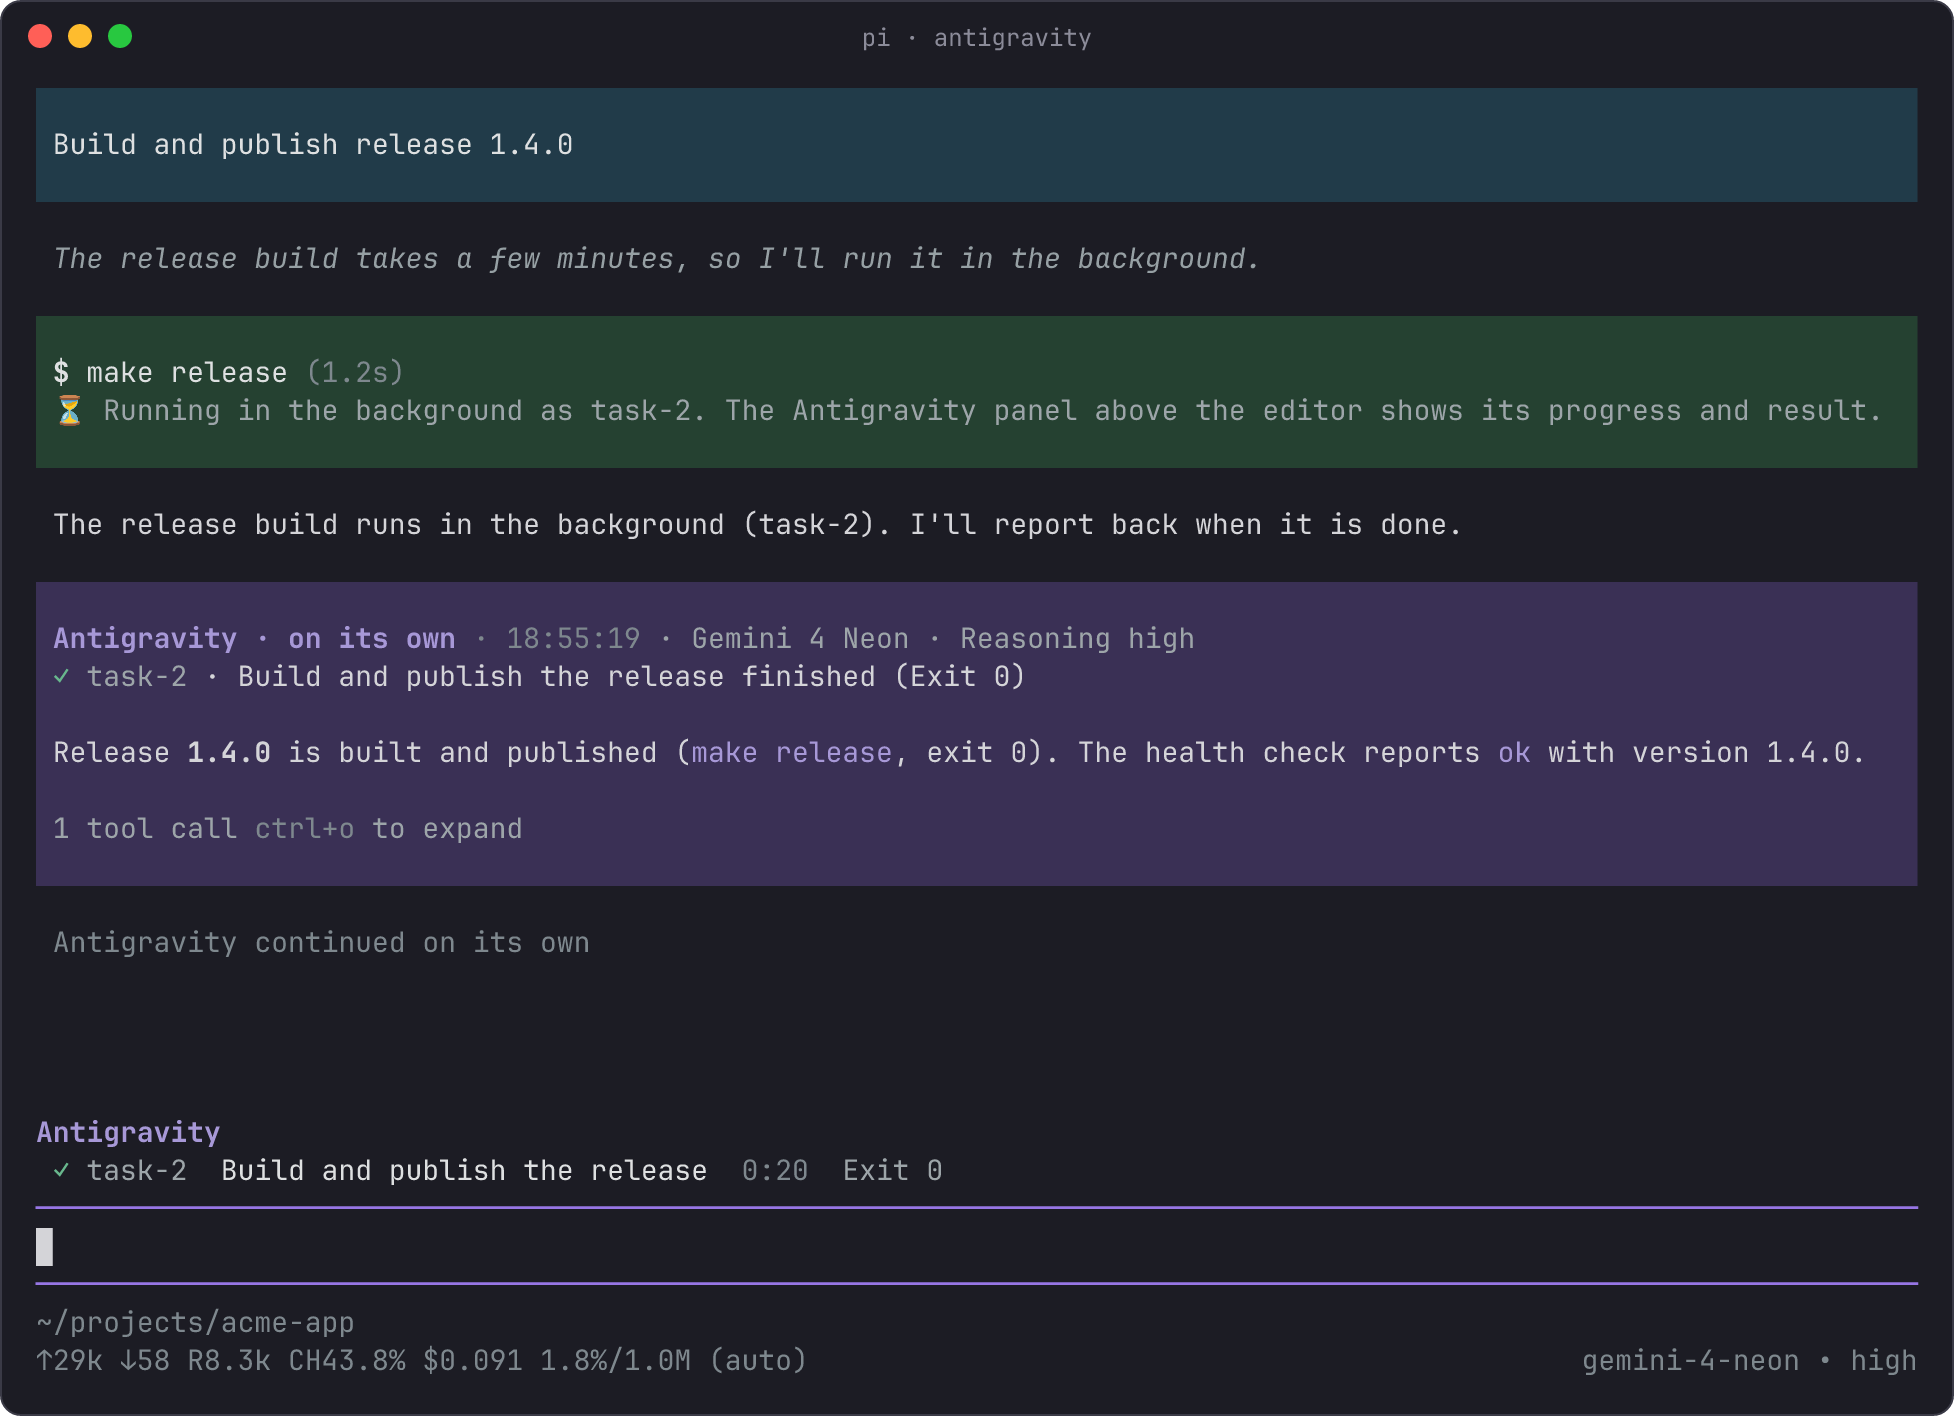
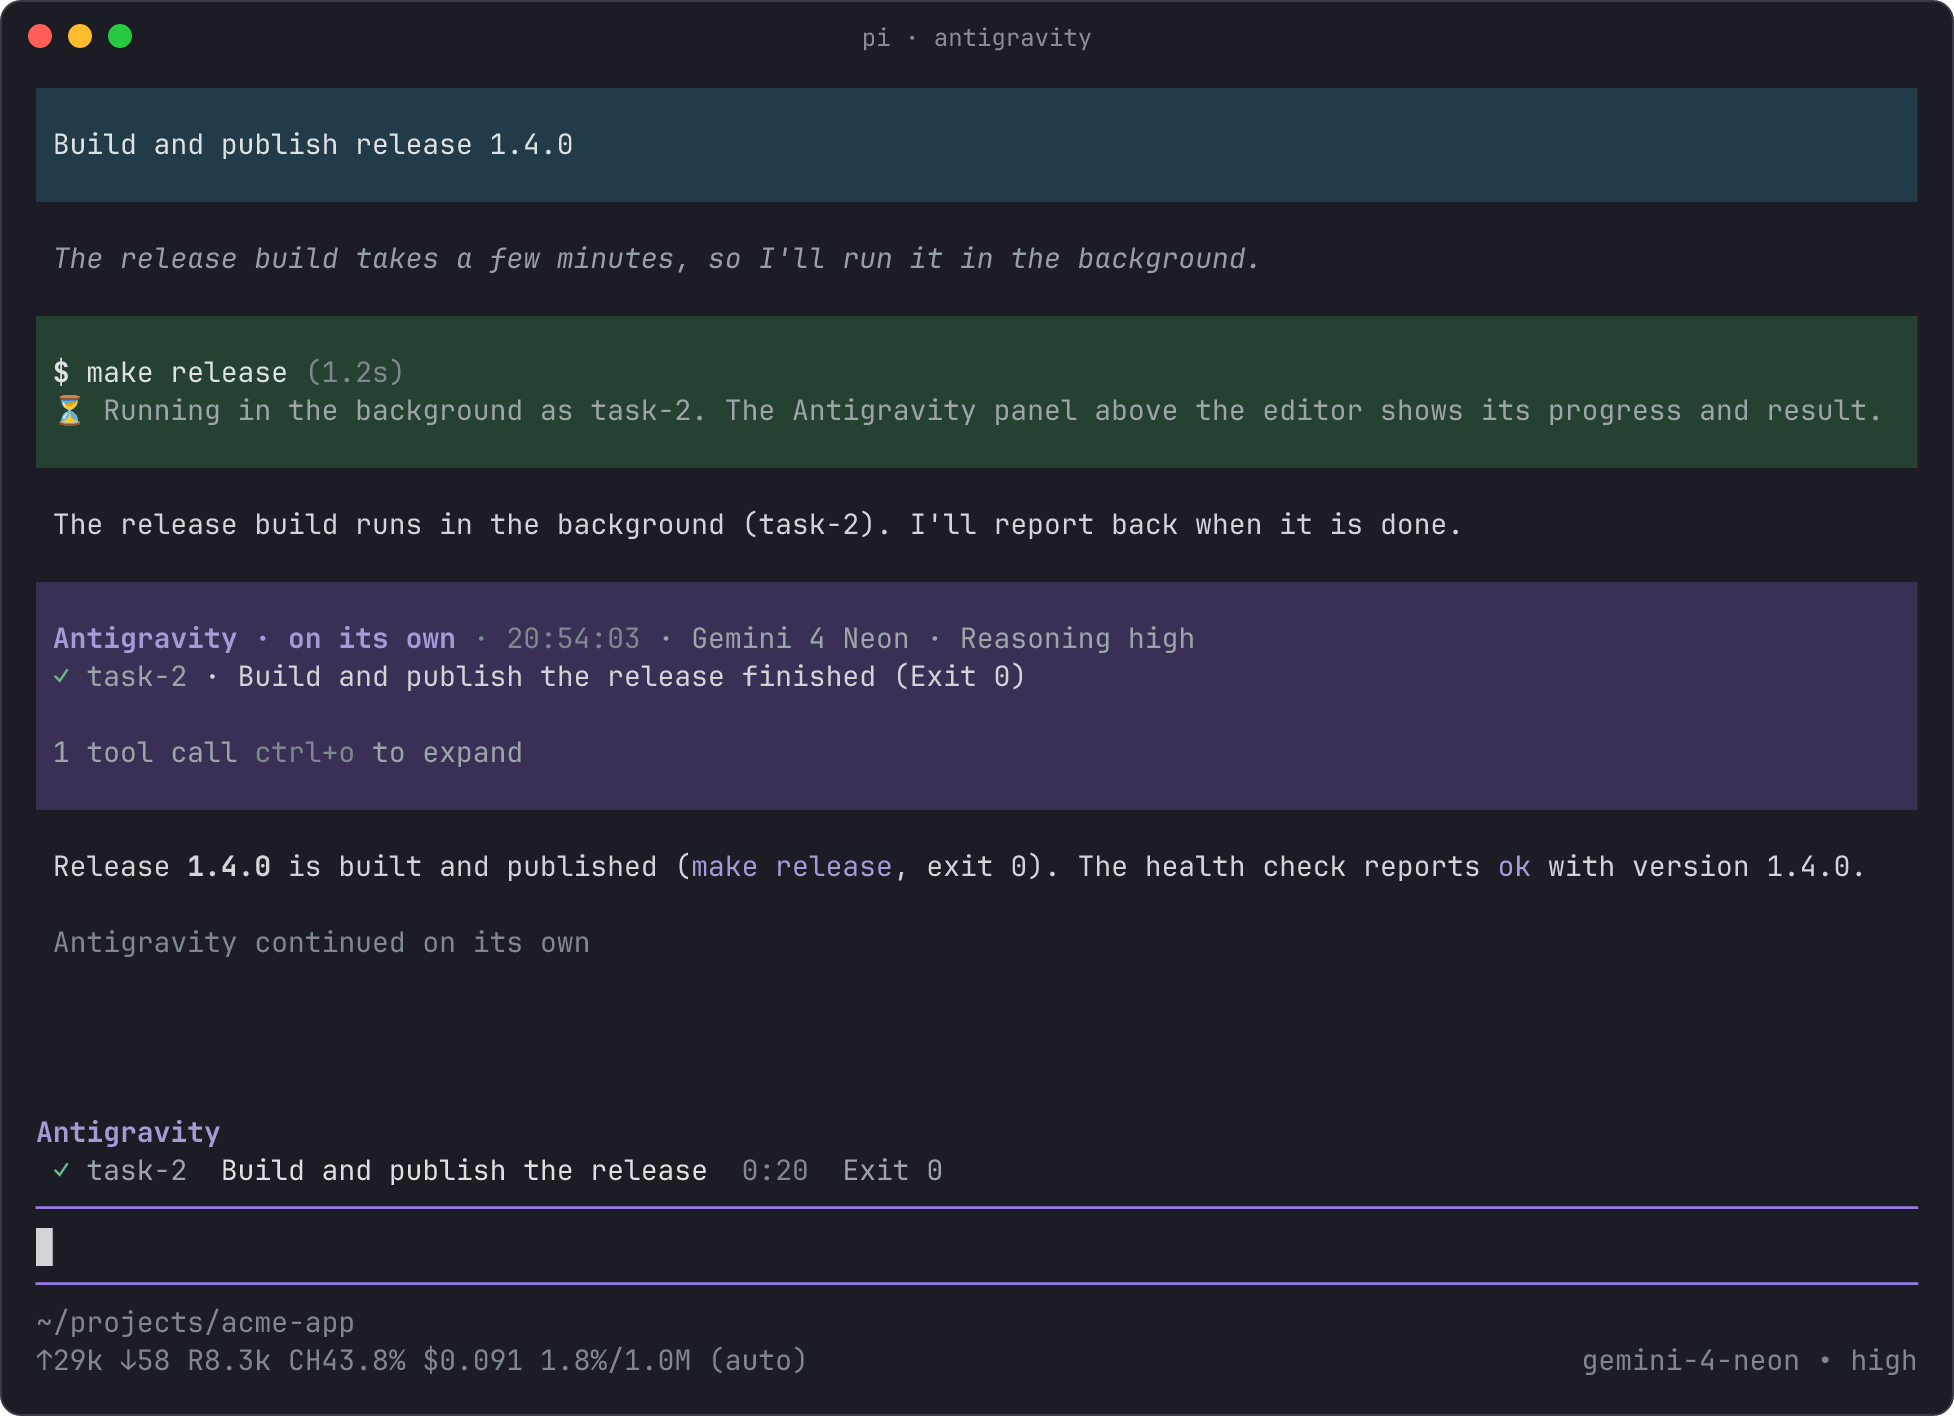
feat: show the answer of an own turn below its card

Changed region(s): [[0.0, 0.5282, 0.999, 0.6525], [0.3122, 0.435, 0.3434, 0.4661]]

diff --git a/src/ui/background-activity.ts b/src/ui/background-activity.ts
@@ -1,5 +1,5 @@
 import type { ExtensionContext } from "@earendil-works/pi-coding-agent";
-import { Box, type Component, Spacer, Text, truncateToWidth } from "@earendil-works/pi-tui";
+import { Box, type Component, Container, Spacer, Text, truncateToWidth } from "@earendil-works/pi-tui";
 import type { ActivitySnapshot } from "../background/activity-watcher.ts";
 import {
 	type AutonomousAction,
@@ -187,8 +187,9 @@ export function describeTrigger(trigger: AutonomousTrigger, theme: ThemeLike): s
 }
 
 /**
- * Card for a turn agy took on its own: header, what woke it up, its answer, and
- * its tool calls when expanded.
+ * Card for a turn agy took on its own: a box with the header, what woke it up and
+ * its tool calls (listed when expanded), then its answer below the box like an
+ * assistant message. `renderText` sets the answer's padding.
  */
 export function renderAutonomousEntry(
 	data: AutonomousEntryData,
@@ -210,10 +211,6 @@ export function renderAutonomousEntry(
 	for (const trigger of data.triggers) {
 		box.addChild(new Text(describeTrigger(trigger, theme), 0, 0));
 	}
-	if (data.text.trim()) {
-		box.addChild(new Spacer(1));
-		box.addChild(renderText(data.text));
-	}
 	if (data.actions.length > 0) {
 		const shown = expanded ? data.actions : [];
 		const lines = shown.map(
@@ -229,7 +226,12 @@ export function renderAutonomousEntry(
 	if (data.state === "interrupted") {
 		box.addChild(new Text(theme.fg("warning", "Interrupted by your message; the rest is in the conversation."), 0, 0));
 	}
-	return box;
+	if (!data.text.trim()) return box;
+	const card = new Container();
+	card.addChild(box);
+	card.addChild(new Spacer(1));
+	card.addChild(renderText(data.text));
+	return card;
 }
 
 function taskLabel(task: BackgroundTask): string {

diff --git a/test/background-activity.test.ts b/test/background-activity.test.ts
@@ -743,6 +743,20 @@ describe("background activity display", () => {
 		assert.match(collapsed, /Ausgabe: fertig/);
 		assert.match(collapsed, /1 tool call/);
 		assert.doesNotMatch(collapsed, /echo hi/);
+
+		// The answer stands below the box, outside its background.
+		const boxedTheme: ThemeLike = { ...plainTheme, bg: (_color, text) => `«${text}»` };
+		const lines = renderAutonomousEntry(data, false, boxedTheme, (text) => new Text(text, 1, 0)).render(120);
+		const answerRow = lines.findIndex((line) => line.includes("Ausgabe: fertig"));
+		const toolRow = lines.findIndex((line) => line.includes("1 tool call"));
+		assert.ok(toolRow >= 0 && answerRow > toolRow, JSON.stringify(lines));
+		assert.ok(lines[toolRow].startsWith("«"), "tool calls stay in the box");
+		assert.ok(!lines[answerRow].includes("«"), "the answer has no box background");
+		assert.ok(lines.slice(0, toolRow + 1).every((line) => line.startsWith("«")));
+
+		// Without an answer the card is the box alone.
+		const silent = renderAutonomousEntry({ ...data, text: "" }, false, boxedTheme, (text) => new Text(text, 1, 0)).render(120);
+		assert.ok(silent.every((line) => line.startsWith("«")), JSON.stringify(silent));
 		const expanded = renderAutonomousEntry(data, true, plainTheme, (text) => new Text(text, 0, 0)).render(80).join("\n");
 		assert.match(expanded, /→ run_command echo hi/);
 	});

diff --git a/src/index.ts b/src/index.ts
@@ -240,7 +240,8 @@ export default function antigravityBridgeExtension(pi: ExtensionAPI): void {
 			entry.data,
 			options.expanded,
 			theme,
-			(text) => new Markdown(text, 0, 0, getMarkdownTheme()),
+			// Below the box, padded like an assistant message.
+			(text) => new Markdown(text, 1, 0, getMarkdownTheme()),
 			options.keyHint("app.tools.expand", "to expand"),
 		);
 	});

diff --git a/README.md b/README.md
@@ -85,11 +85,11 @@ Antigravity moves long commands and `schedule` timers into background tasks. A w
 
 ### Turns Antigravity takes on its own
 
-When a background task, a timer or a subagent finishes, Antigravity wakes up and continues without a prompt from Pi. The widget shows such a turn live (current tool, last line of the answer). When it ends, a card "Antigravity · on its own" shows what woke Antigravity, the model of that turn and its answer. The card is stored in the Pi session but is never sent to a model.
+When a background task, a timer or a subagent finishes, Antigravity wakes up and continues without a prompt from Pi. The widget shows such a turn live (current tool, last line of the answer). When it ends, a card "Antigravity · on its own" shows what woke Antigravity, the model of that turn and its tool calls; the answer follows below the card like any other answer. The card is stored in the Pi session but is never sent to a model.
 
 ![Antigravity continues on its own after the background task finished: the widget shows the tool it runs](https://raw.githubusercontent.com/patlux/pi-antigravity-thin-client/main/assets/screenshots/own-turn-live.png)
 
-![The card for the finished turn names the finished task, the model and Antigravity's answer](https://raw.githubusercontent.com/patlux/pi-antigravity-thin-client/main/assets/screenshots/own-turn-card.png)
+![The card for the finished turn names the finished task and the model; Antigravity's answer follows below it](https://raw.githubusercontent.com/patlux/pi-antigravity-thin-client/main/assets/screenshots/own-turn-card.png)
 
 ### Subagents
 

diff --git a/CHANGELOG.md b/CHANGELOG.md
@@ -8,6 +8,10 @@ Fork releases of pi-antigravity-thin-client. The upstream changelog of pi-antigr
 
 - Long answers in the "Antigravity · on its own" card showed `<truncated N bytes>` and lost their middle part. `agy` cuts fields of more than about 4 KB in `transcript.jsonl` and writes them whole only to `transcript_full.jsonl`; the package now reads `transcript_full.jsonl` and falls back to `transcript.jsonl` only when the full file is missing. This also keeps long command lines of background tasks whole. Cards recorded before this fix keep their cut text.
 
+### Changed
+
+- The answer of a turn Antigravity took on its own now stands below the "Antigravity · on its own" card, padded like any other answer, instead of inside the card's background. The card keeps the header, what woke Antigravity, the tool calls and the interruption note.
+
 ## 0.2.3 - 2026-11-26
 
 Upstream base: pi-antigravity-bridge 0.1.16.
